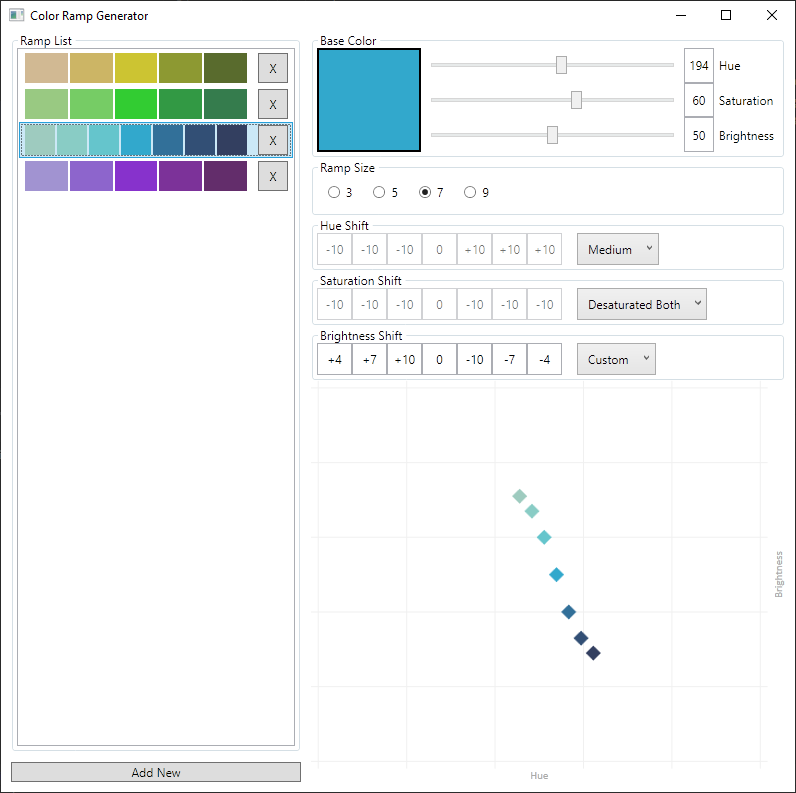
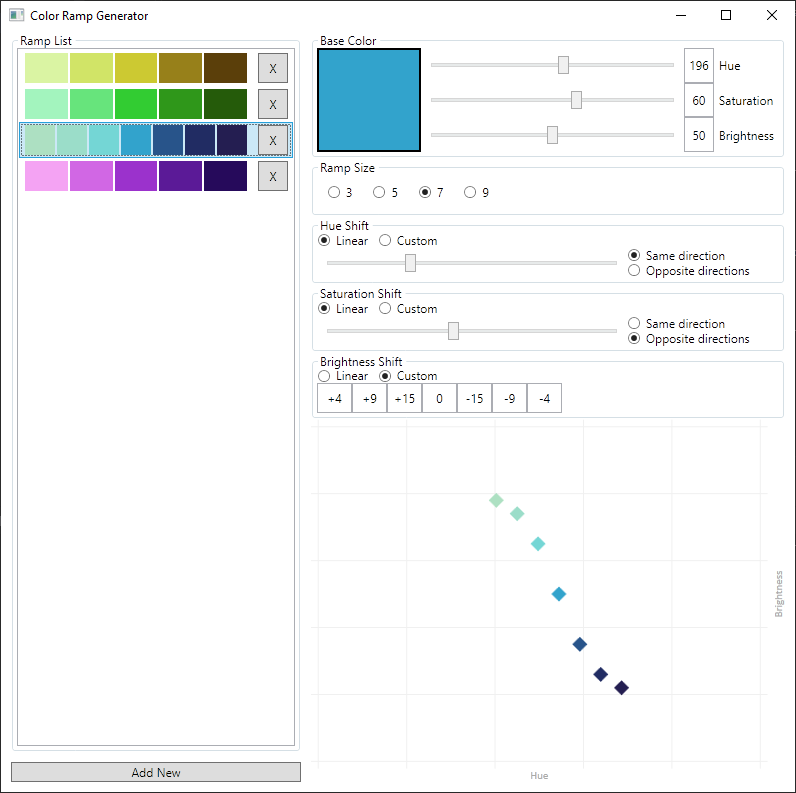
Update README.md

diff --git a/README.md b/README.md
@@ -14,9 +14,9 @@ To use the program just grab the zip file from the latest [release](https://gith
 ### Getting Started
 1. Use Hue, Saturation and Brightness sliders to make a base color of your liking. For the base color I recommend setting Brightness to 50 and Saturation between 50 and 70.
 2. Choose your ramp size.
-3. Chose Hue shifts. You can use presets from the drop-down to the right or use your custom values.
-4. Chose Saturation shifts the same way you did with Hue.
-5. Chose Brightness shifts the same way you did with Hue and Saturation.
+3. Use Hue Shift slider to adjust colors in the ramp. You can choose whether shifts will have the same direction on both sides to the left and to the right of the base color, or they will have opposite directions.
+4. Use Hue Shift slider to adjust colors in the ramp the same way you did with Hue.
+5. Use Hue Shift slider to adjust colors in the ramp the same way you did with Hue and Saturation.
 6. Congratulations! You have made your first color ramp.
 
 ### Where to go from here
@@ -24,14 +24,16 @@ To use the program just grab the zip file from the latest [release](https://gith
 * Play with custom shifts, see how it looks in the graph.
 * Take a screenshot and use it to pick a colors in the graphic software of your choice.
 
-### What if I want my own shift presets?
-You can find the presets.json file in the folder next to the executable file. Feel free to edit it the way you like, just follow the format.
-
 ## Contributing
 Pull requests are welcome.
 
 ## Acknowledgment
 The project uses free [LiveCharts](https://github.com/Live-Charts/Live-Charts/) library for the graph visualization.
+
+Sources of inspiration:
+* AdamCYonis' [video](https://www.youtube.com/watch?v=hkrK65FPmDI) about color palettes
+* Slynyrd's [article](https://www.slynyrd.com/blog/2018/1/10/pixelblog-1-color-palettes) about color palettes
+* [This](http://pixeljoint.com/forum/forum_posts.asp?TID=10695) PixelJoint forum thread 
 
 ## License
 This project is licensed under the MIT License - see the [LICENCE.md](/LICENCE.md) file for details
